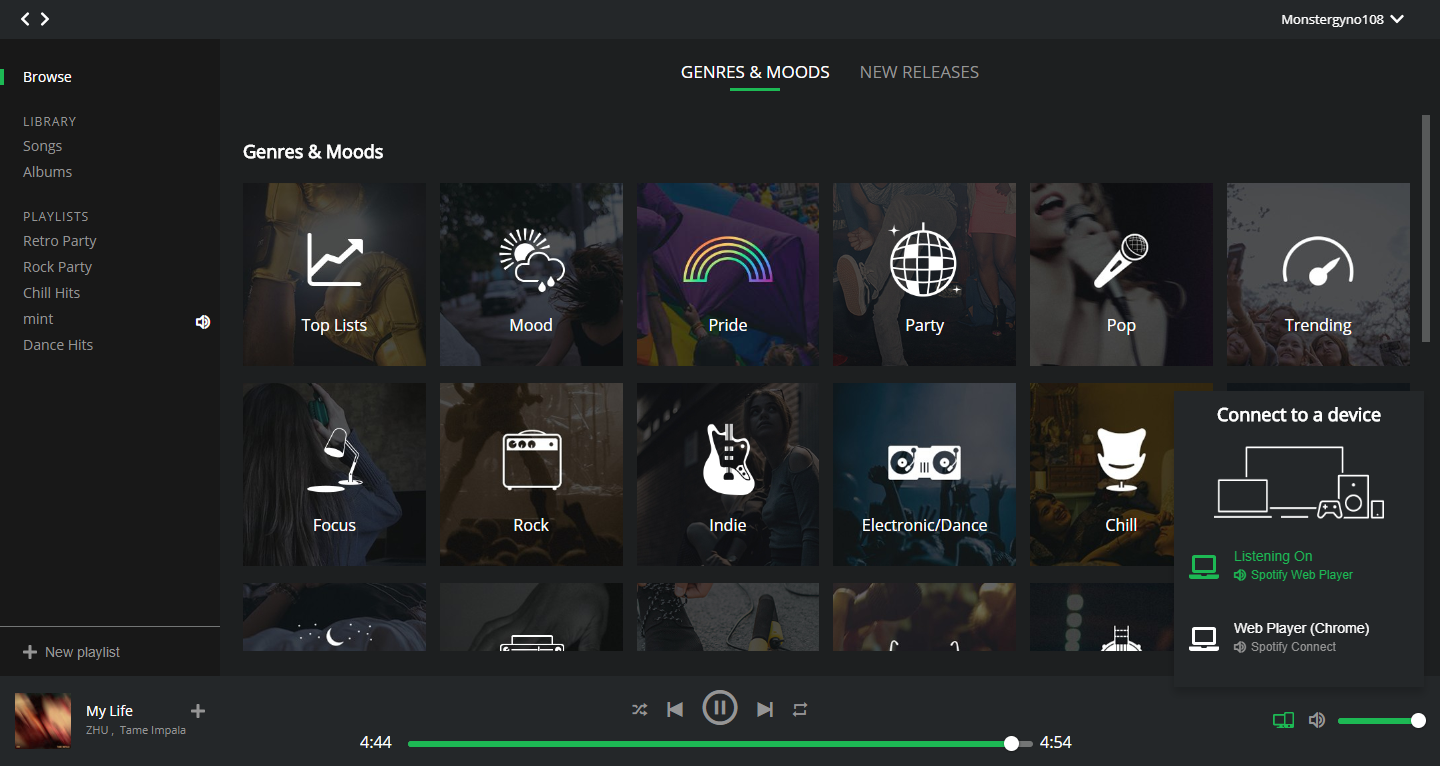
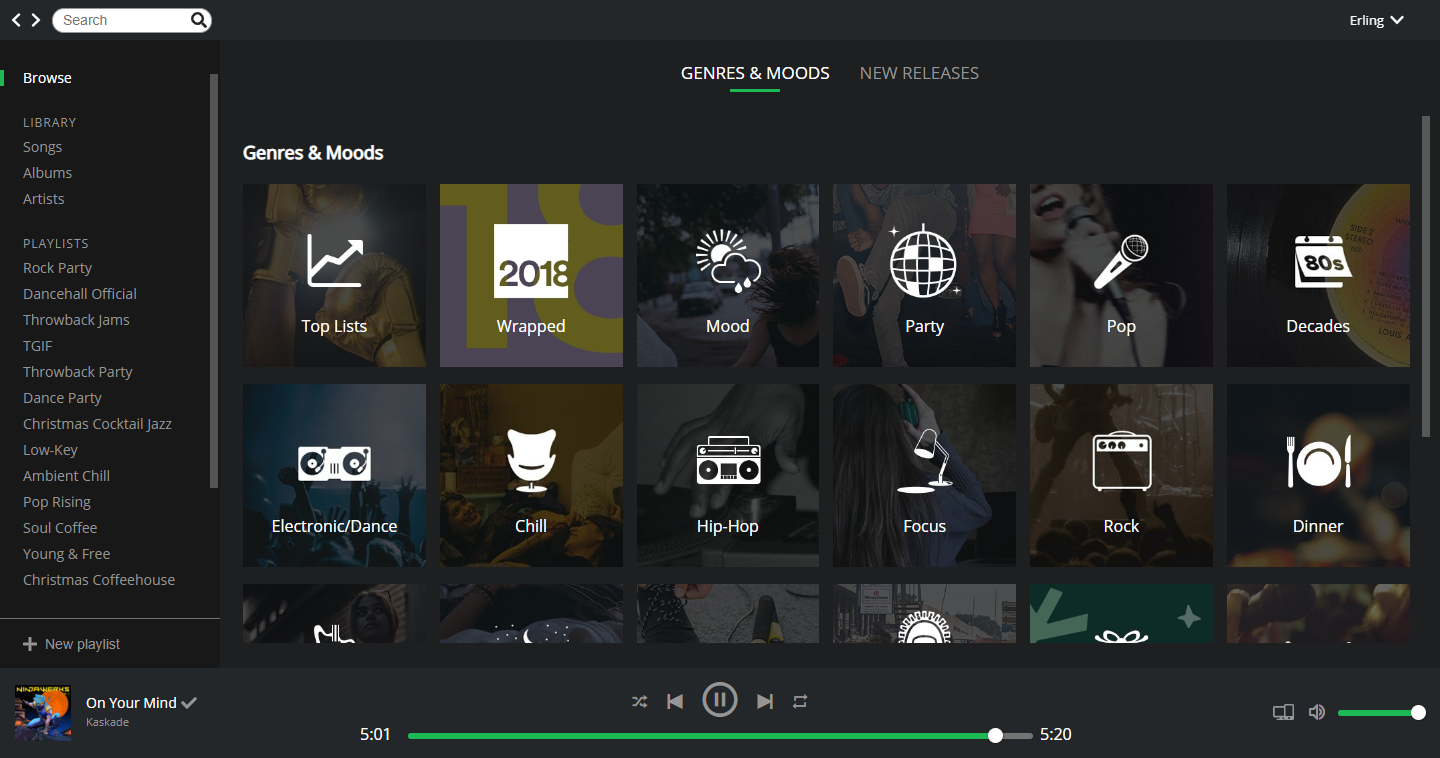
update readme

diff --git a/README.md b/README.md
@@ -4,7 +4,7 @@ Spotify client built with vue.js / vuex.
 Authenticated users must have a valid Spotify Premium subscription because if it doesn't, Web Playback SDK will not work.
 
 ![alt text](https://github.com/gk4m/vue-spotify/blob/master/public/example/BrowseView.png "Browse")
-![alt text](https://github.com/gk4m/vue-spotify/blob/master/public/example/AlbumsView.png "Albums")
+![alt text](https://github.com/gk4m/vue-spotify/blob/master/public/example/SearchView.png "Search")
 ![alt text](https://github.com/gk4m/vue-spotify/blob/master/public/example/PlaylistView.png "Playlist")
 
 ## Features
@@ -16,6 +16,7 @@ Authenticated users must have a valid Spotify Premium subscription because if it
 
 #### Search
 * Get Spotify Catalog information about artists, albums, tracks or playlists that match a keyword string.
+
 #### Browse
 * Get a List of Categories
 * Get New Releases
